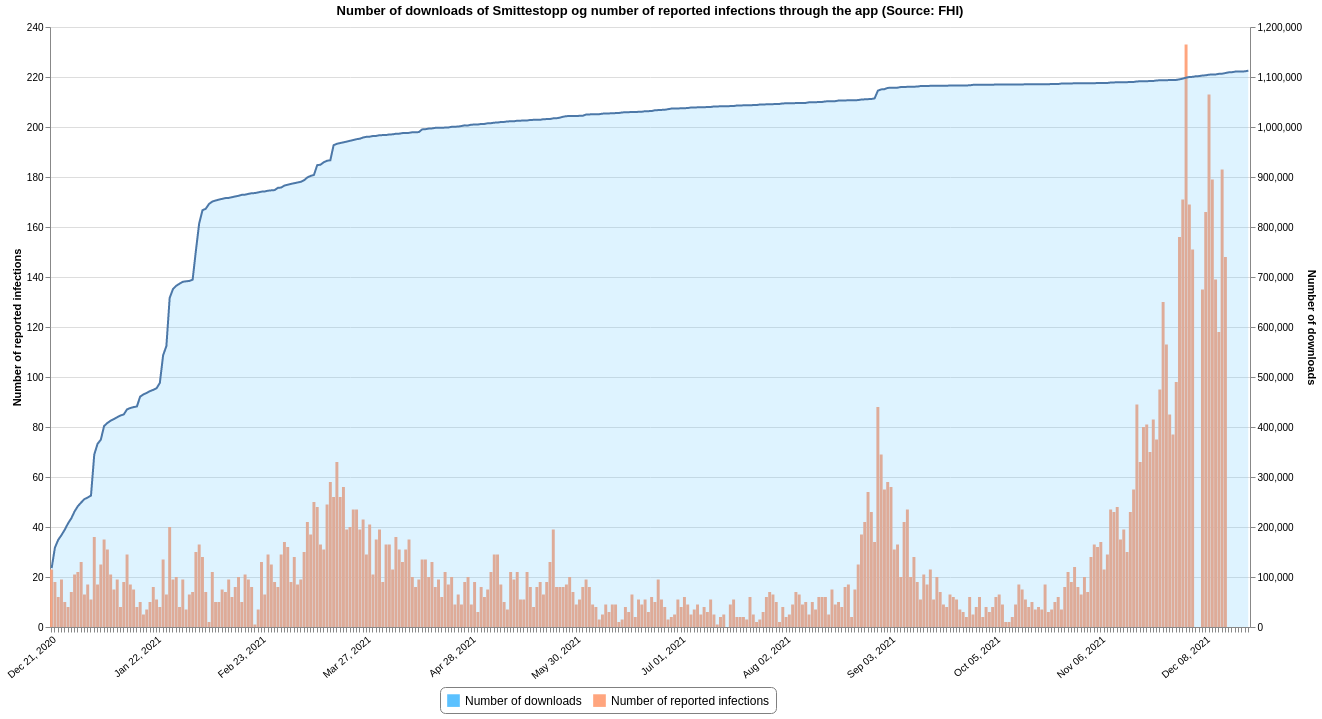
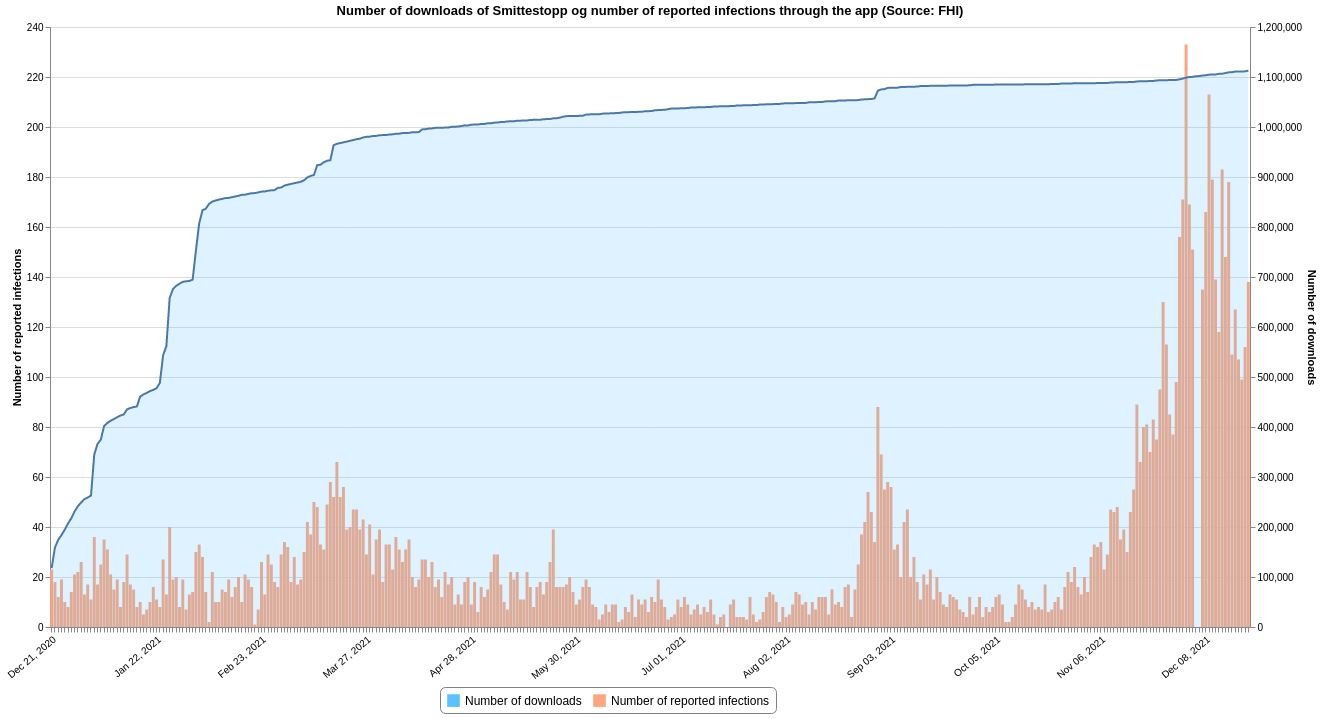
Updated 2021-12-22 16:41

Changed region(s): [[0.9304, 0.4284, 0.9614, 0.8873]]

diff --git a/README.md b/README.md
@@ -17,7 +17,7 @@ This repository contains datasets of daily time-series data related to COVID-19 
 |[Tested Lab](#tested_labcsv)|FHI|2021-12-22 13:20:43+01:00|[<center>csv</center>](https://raw.githubusercontent.com/frefrik/covid19norge-data/main/data/tested_lab.csv)|[<center>preview</center>](data/tested_lab.csv)|
 |[Transport](#transportcsv)|FHI|2021-09-24 23:10:46+02:00|[<center>csv</center>](https://raw.githubusercontent.com/frefrik/covid19norge-data/main/data/transport.csv)|[<center>preview</center>](data/transport.csv)|
 |[Vaccine Doses](#vaccine_dosescsv)|FHI|2021-12-22 13:20:47+01:00|[<center>csv</center>](https://raw.githubusercontent.com/frefrik/covid19norge-data/main/data/vaccine_doses.csv)|[<center>preview</center>](data/vaccine_doses.csv)|
-|[Smittestopp](#smittestoppcsv)|FHI|2021-12-22 16:31:01+01:00|[<center>csv</center>](https://raw.githubusercontent.com/frefrik/covid19norge-data/main/data/smittestopp.csv)|[<center>preview</center>](data/smittestopp.csv)|
+|[Smittestopp](#smittestoppcsv)|FHI|2021-12-22 16:40:52+01:00|[<center>csv</center>](https://raw.githubusercontent.com/frefrik/covid19norge-data/main/data/smittestopp.csv)|[<center>preview</center>](data/smittestopp.csv)|
 |[Omicron](#omicroncsv)|FHI|2021-12-22 10:11:05+01:00|[<center>csv</center>](https://raw.githubusercontent.com/frefrik/covid19norge-data/main/data/omicron.csv)|[<center>preview</center>](data/omicron.csv)|
 <!-- table ends -->
 
